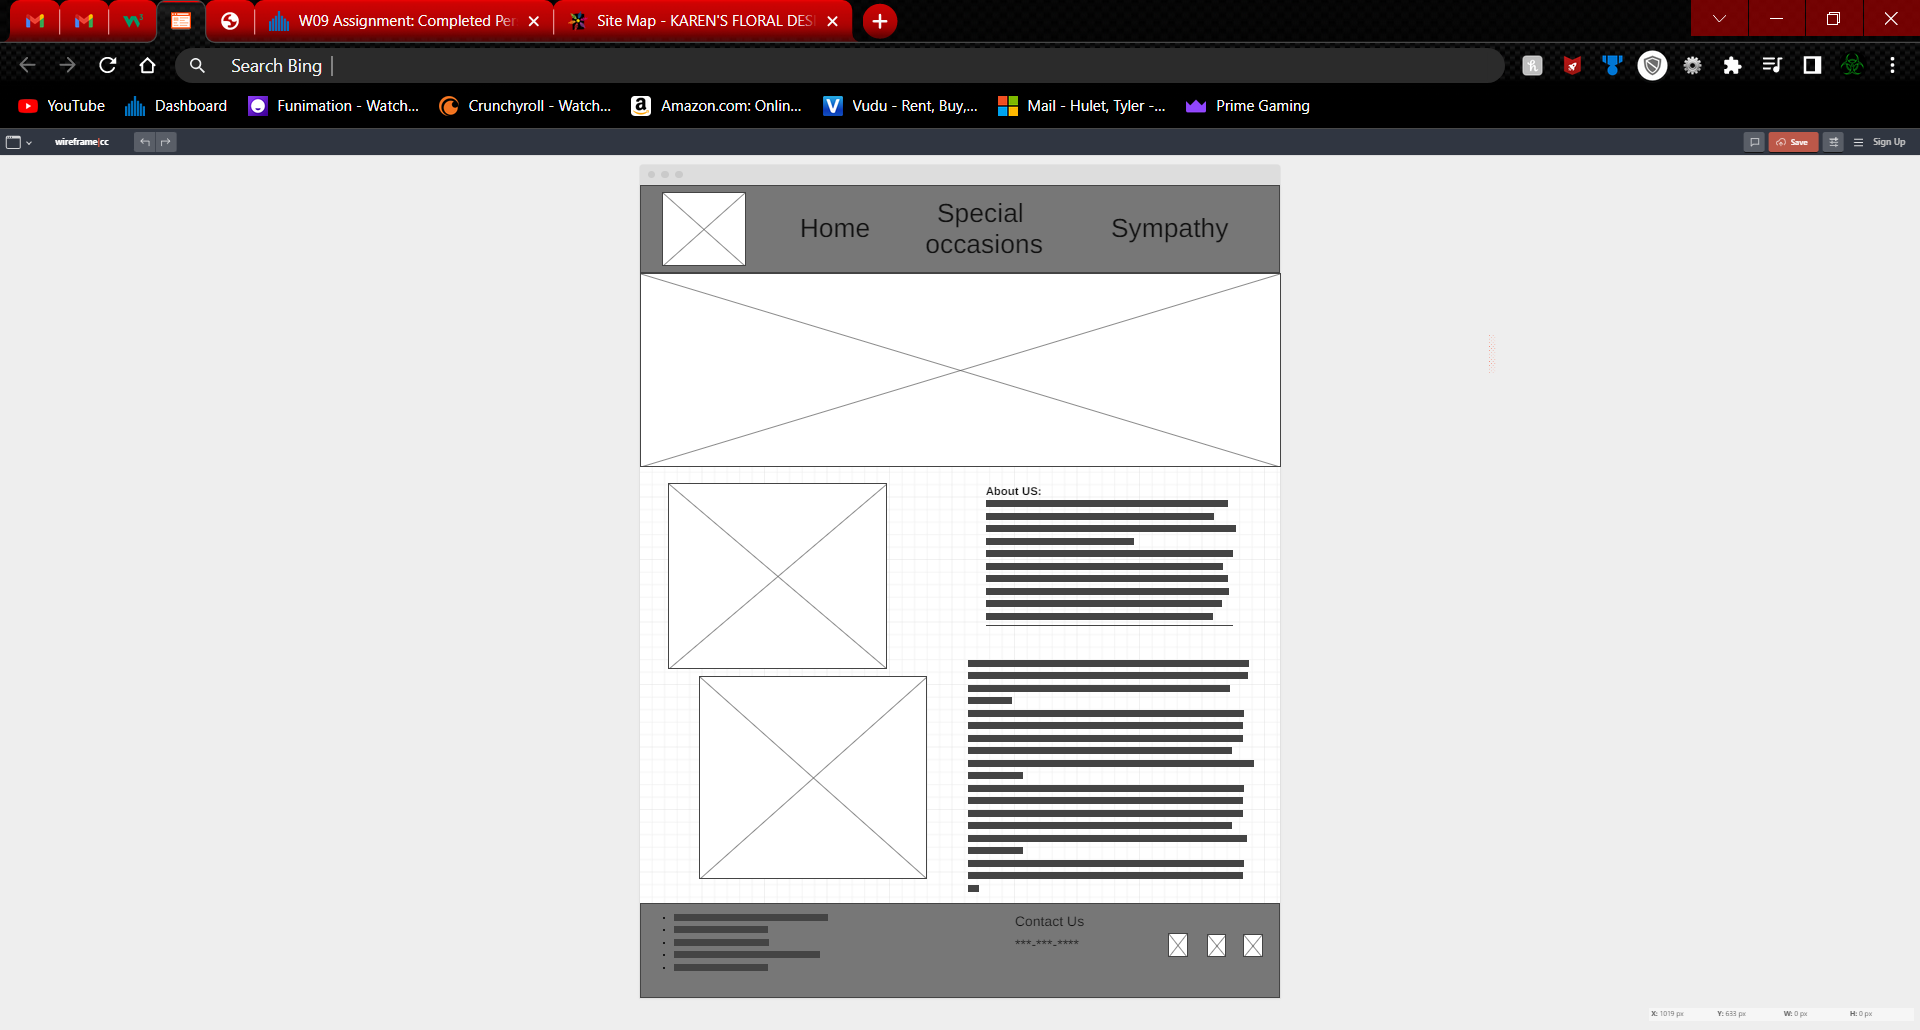
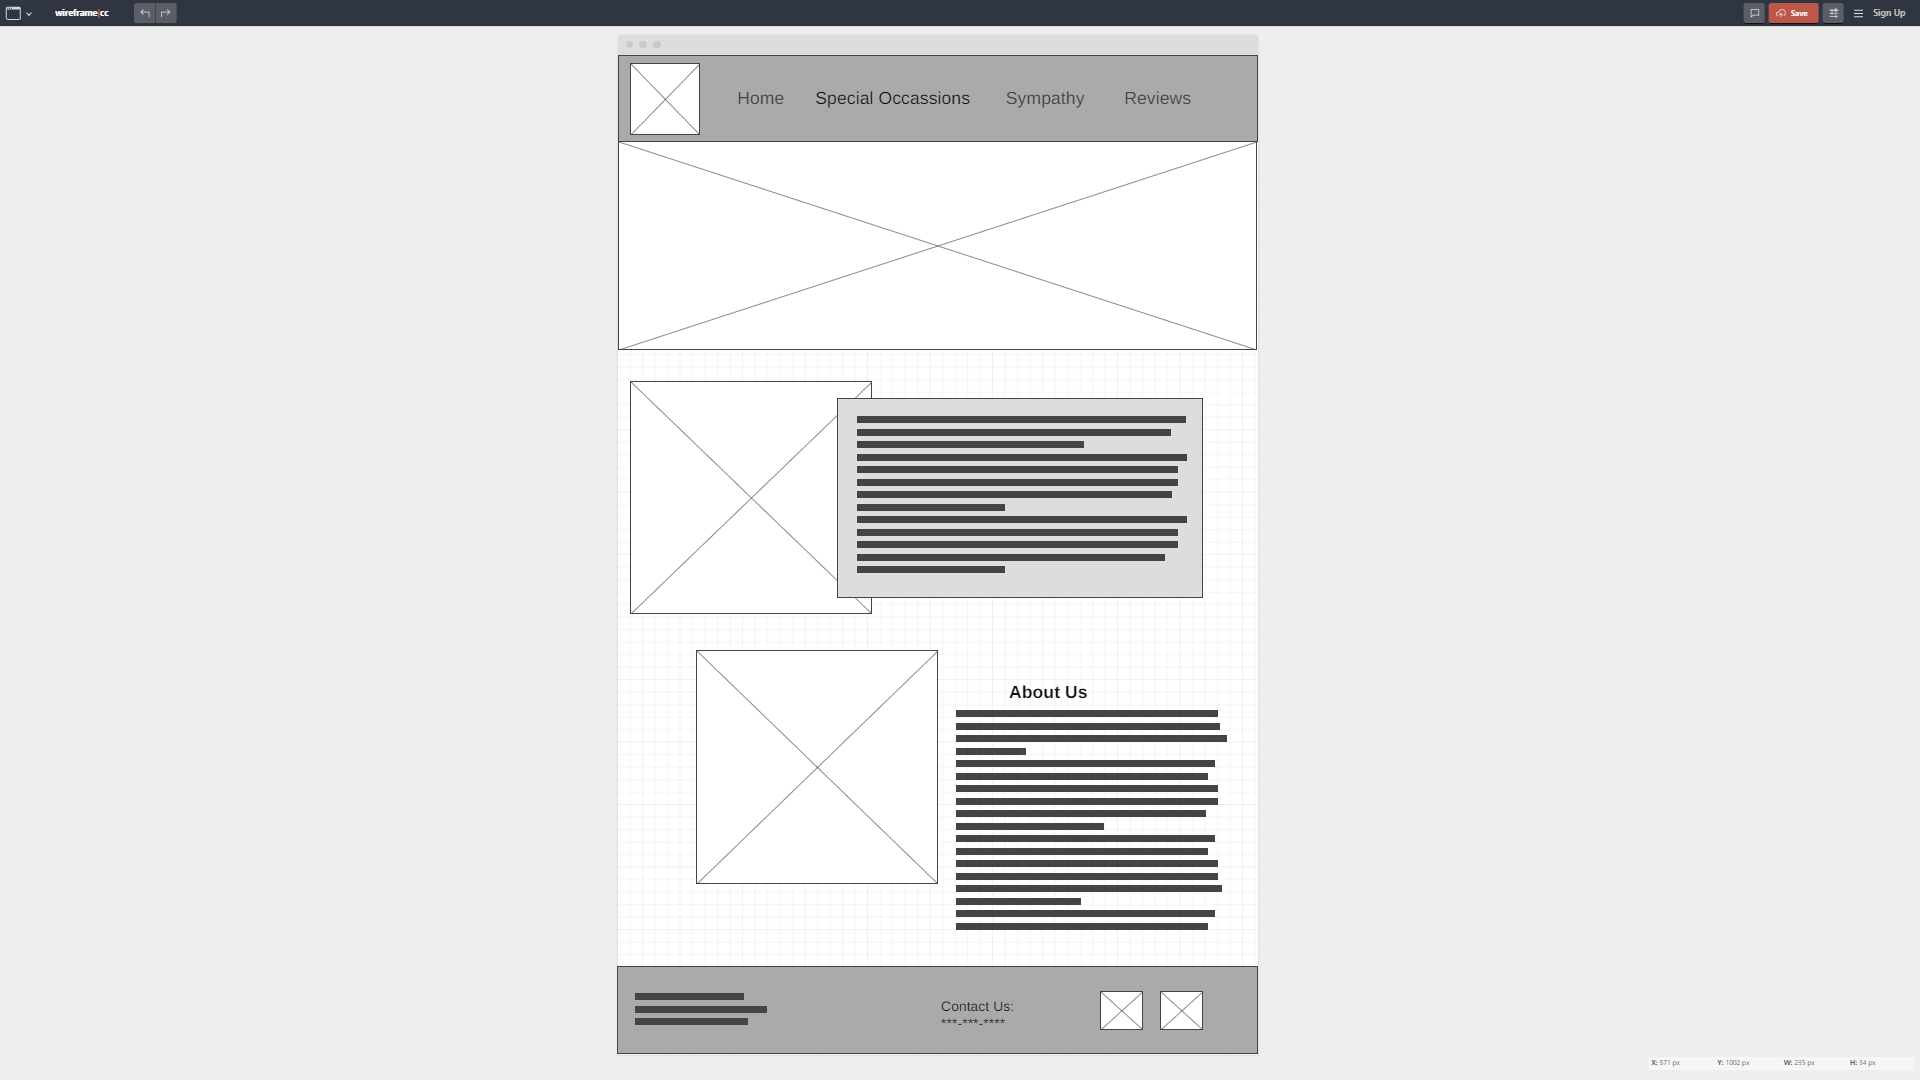
personal wireframe update

diff --git a/personalsite/site-plan.html b/personalsite/site-plan.html
@@ -241,15 +241,15 @@
 
     <h3>[Page 2]</h3>
     <p>
-      [Any additional details about page 2 that the wireframe does not make clear]
+      this wireframe is for my special occasions page
     </p>
     <img src="images/Wireframepage2.png" alt="page 2 wireframe" width="600">
 
     <h3>[Page 3]</h3>
     <p>
-      [Any additional details about page 3 that the wireframe does not make clear]
+      This wireframe is for my Sympathy page
     </p>
-    <img src="#" alt="page 3 wireframe">
+    <img src="images/wireframepage3.png" alt="page 3 wireframe" width="600">
   </main>
 </body>
 
